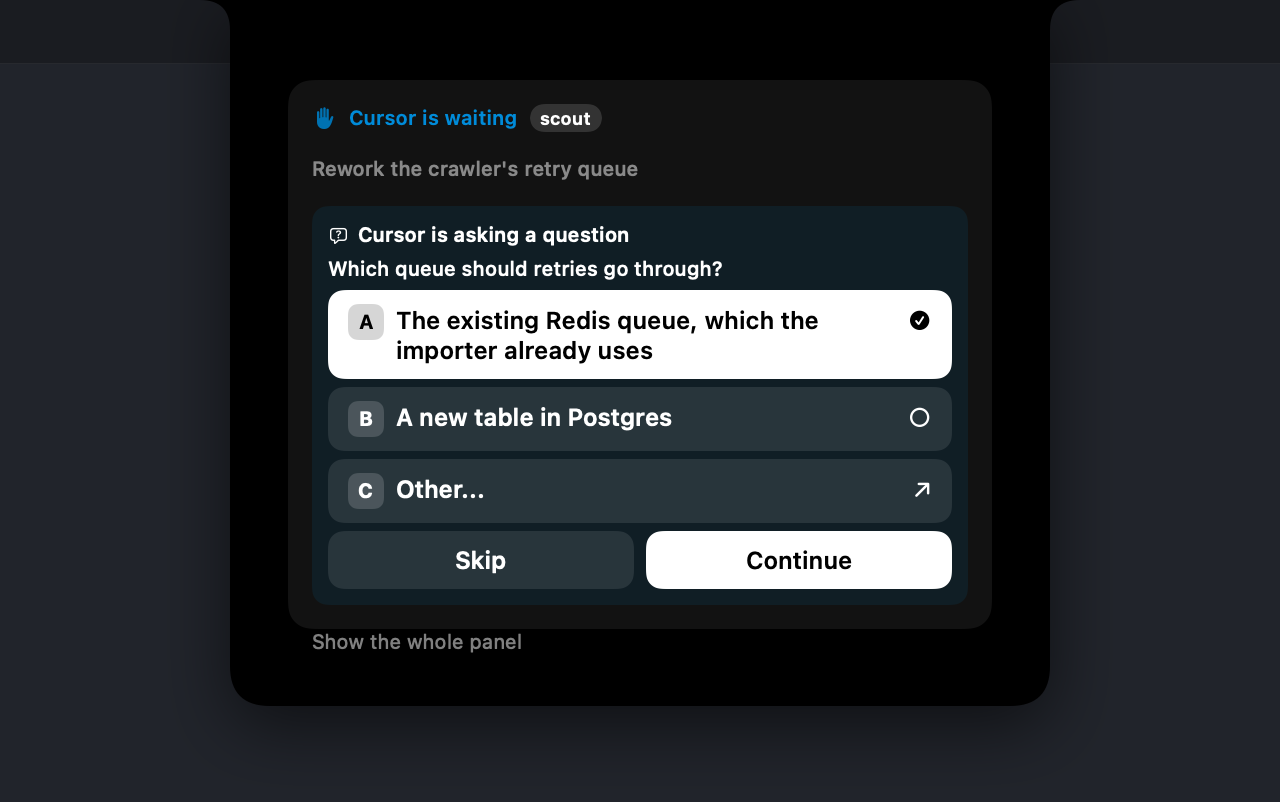
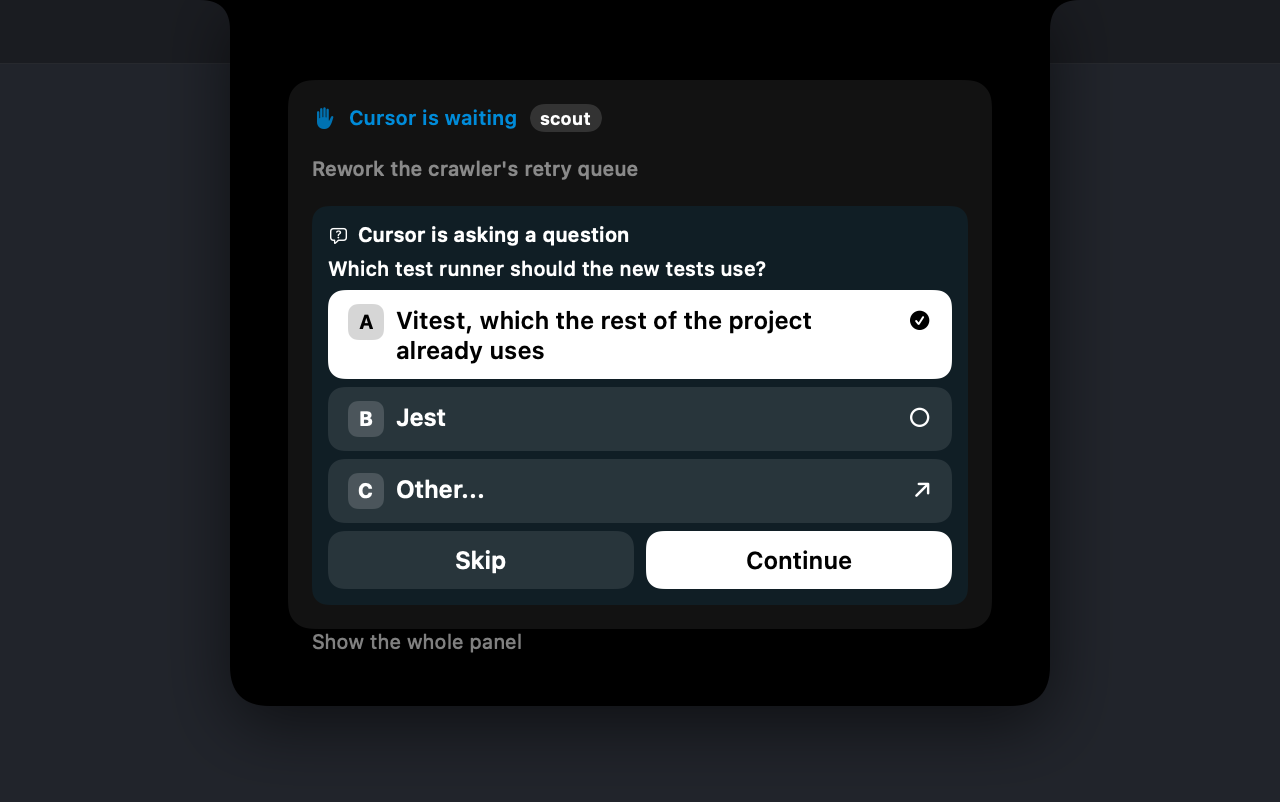
a generic coding question in the demo question card
The sample question and its choices are now about a test runner. The picture
for the home page is drawn again with it.

Claude-Session: https://claude.ai/code/session_01WatWjXxWe8cfoq473eoYRe

Changed region(s): [[0.3125, 0.3741, 0.6562, 0.4676], [0.3125, 0.3117, 0.5938, 0.3429], [0.3125, 0.4988, 0.5312, 0.5299]]

diff --git a/Tests/NotchmeterTests/CursorAccessibilityTests.swift b/Tests/NotchmeterTests/CursorAccessibilityTests.swift
@@ -1313,15 +1313,15 @@ import Testing
         #expect(!CursorCardView.answersHere(shown, hideDetails: false) && CursorCardView.offered(shown, hideDetails: false).isEmpty)
         // Every other card keeps its buttons whatever is hidden.
         #expect(CursorCardView.offered(run("proj"), hideDetails: true).map(\.label) == ["Skip", "Run"])
-        // A choice is drawn as its letter, set apart, and then its words: "B A new table" read as one run of words.
-        #expect(CursorCardView.lettered("B A new table in Postgres") == ("B", "A new table in Postgres"))
+        // A choice is drawn as its letter, set apart, and then its words: "B A second runner" read as one run of words.
+        #expect(CursorCardView.lettered("B A second runner") == ("B", "A second runner"))
         #expect(CursorCardView.lettered("A apple") == ("A", "apple"))
         #expect(CursorCardView.lettered("D Other...") == ("D", "Other..."))
         #expect(CursorCardView.lettered("apple") == (nil, "apple"), "a label with no letter of its own is drawn as it is")
         #expect(CursorCardView.lettered("a pple") == (nil, "a pple"))
         #expect(CursorCardView.lettered("A ") == (nil, "A "))
         // Where a choice is only listed, or spoken, it is one line of words.
-        #expect(CursorCardView.listed("B A new table in Postgres") == "B. A new table in Postgres")
+        #expect(CursorCardView.listed("B A second runner") == "B. A second runner")
         #expect(CursorCardView.listed("apple") == "apple")
         // Drawn, the card with its choices to press is the taller of the two.
         func height(_ card: CursorCard, hidden: Bool) -> CGFloat {

diff --git a/Sources/Notchmeter/DemoFixtures.swift b/Sources/Notchmeter/DemoFixtures.swift
@@ -877,9 +877,9 @@ extension DemoFixtures {
         var approval = CursorCard(kind: .run, window: "api-server", heading: "Create /Users/me/notes/export-plan.md",
                                   options: [.init(label: "Skip", path: [0]), .init(label: "Run", path: [1])])
         approval.command = false
-        var question = CursorCard(kind: .question, window: "scout", heading: "Which queue should retries go through?",
+        var question = CursorCard(kind: .question, window: "scout", heading: "Which test runner should the new tests use?",
                                   options: [.init(label: "Skip", path: [3]), .init(label: "Continue", path: [4])])
-        let choices = ["A The existing Redis queue, which the importer already uses", "B A new table in Postgres", "C Other..."]
+        let choices = ["A Vitest, which the rest of the project already uses", "B Jest", "C Other..."]
         question.choices = choices
         question.questions = [.init(text: question.heading, choices: choices.enumerated().map { index, label in
             .init(label: label, path: [index], picked: index == 0, typed: index == 2)

diff --git a/Sources/Notchmeter/CursorCardView.swift b/Sources/Notchmeter/CursorCardView.swift
@@ -32,7 +32,7 @@ struct CursorCardView: View {
 
     /// A choice's letter and its words apart, as a row draws them (the letter in a chip, then the words): Cursor's
     /// label is the two run together ("A apple"), which reads badly when the words open with a capital of their
-    /// own ("B A new table"). A label that is not a letter, a space and words is drawn as it is, with no letter.
+    /// own ("B A second runner"). A label that is not a letter, a space and words is drawn as it is, with no letter.
     static func lettered(_ label: String) -> (letter: String?, words: String) {
         guard label.count > 2, let first = label.first, first.isLetter, first.isUppercase, label.dropFirst().first == " " else { return (nil, label) }
         return (String(first), String(label.dropFirst(2)))
